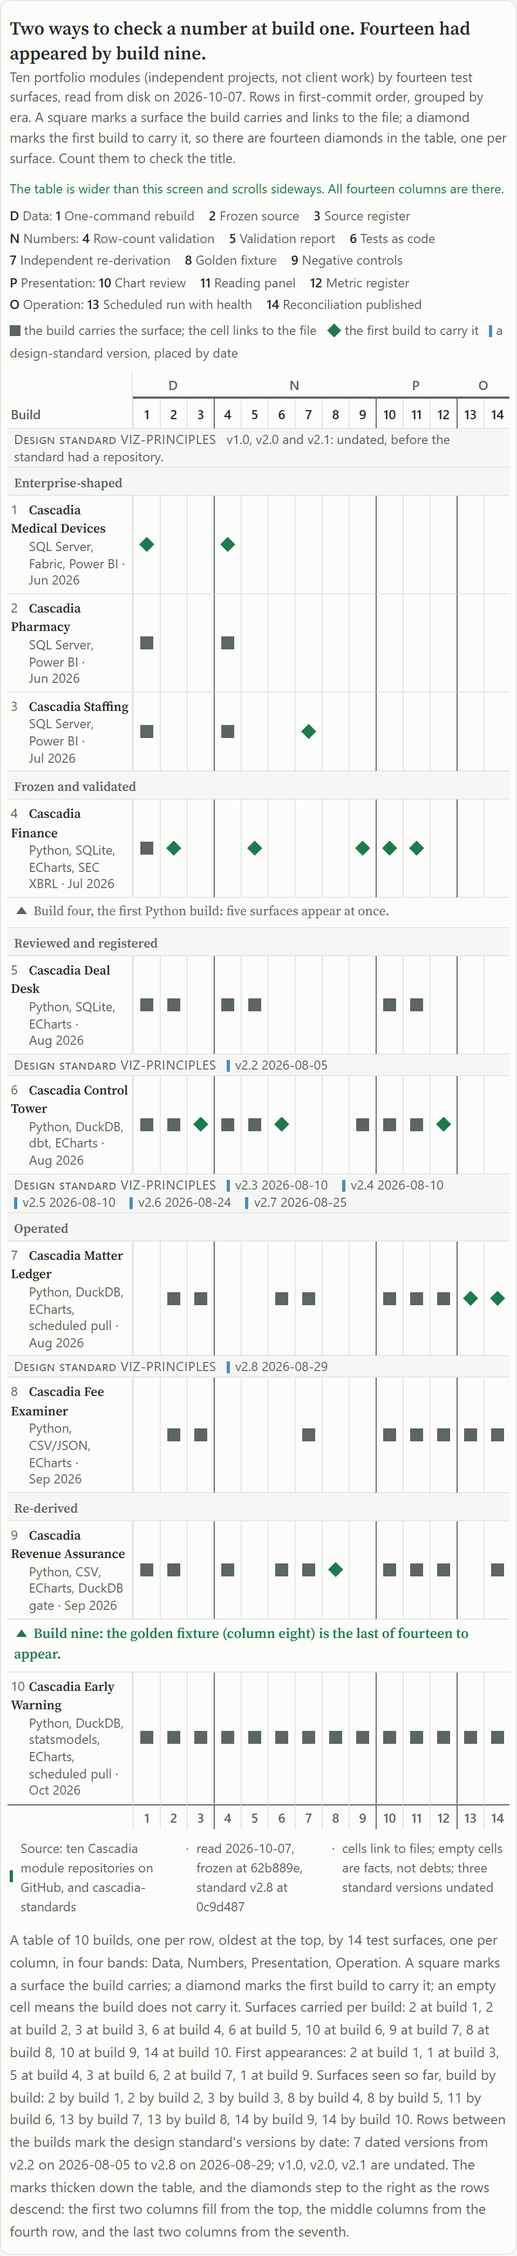
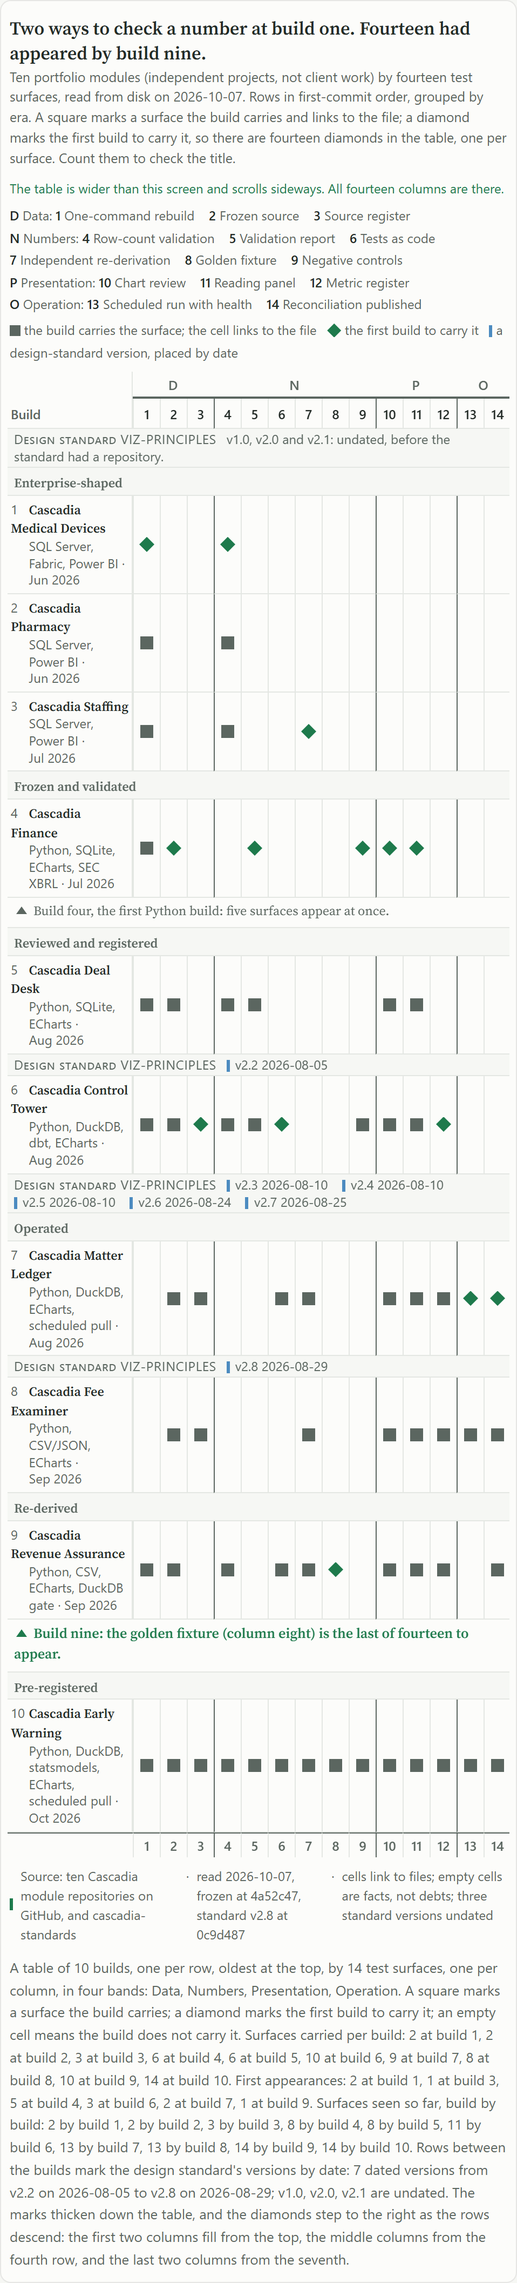
freeze.toml: baseline moved to the Brief 4 refreeze; page rebuilt and re-rendered; one-seat revision read recorded
The sixth era changed the matrix's grouping, so by Aaron's decision one
naive seat read the 320 and 1040 renders. Its one new finding (R1: the
name "Pre-registered" read as a step backwards next to "Reviewed and
registered") is held for Aaron, with an alternative in the report.

Gates: validate.py PASSED; validate_freeze.py PASSED; hook matrix 50 of 50;
render_charts.py K6 ladder exit 0 at 320 to 1040.

diff --git a/docs/index.html b/docs/index.html
@@ -176,7 +176,7 @@
 <header class="site-head">
   <p class="kicker"><a href="https://www.robbinsanalytics.com">Cascadia Portfolio</a> · Build by Build</p>
   <h1>Build by Build</h1>
-  <p class="lede">Nine Cascadia modules, built one after another over four months, and the tests each one could carry when it shipped. Every filled cell links to the file on GitHub that it names. An empty cell says the build did not carry that surface, and nothing is owed on it.</p>
+  <p class="lede">Ten Cascadia modules, built one after another over four months, and the tests each one could carry when it shipped. Every filled cell links to the file on GitHub that it names. An empty cell says the build did not carry that surface, and nothing is owed on it.</p>
 </header>
 
 <h2>The test-surface matrix</h2>
@@ -210,9 +210,10 @@
 <tr class="lane"><td colspan="15"><div class="stick"><span class="lane-label">Design standard VIZ-PRINCIPLES</span> <span class="lane-mark"><span class="lane-tick" aria-hidden="true"></span>v2.8 <span class="lane-date">2026-08-29</span></span></div></td></tr>
 <tr class="build"><th scope="row" class="build-label"><span class="ord" aria-hidden="true">8</span><a href="https://www.robbinsanalytics.com/projects/cascadia-fee-examiner.html">Cascadia Fee Examiner</a><span class="meta">Python, CSV/JSON, ECharts <span class="dot">·</span> <span class="when">Sep 2026</span></span></th><td class="cell empty"></td><td class="cell"><a class="mark" href="https://github.com/RobbinsAnalytics/cascadia-fee-examiner/blob/main/governance/freeze.toml" title="governance/freeze.toml" aria-label="Frozen source: governance/freeze.toml in cascadia-fee-examiner"><span aria-hidden="true"></span></a></td><td class="cell"><a class="mark" href="https://github.com/RobbinsAnalytics/cascadia-fee-examiner/blob/main/governance/source-register.md" title="governance/source-register.md" aria-label="Source register: governance/source-register.md in cascadia-fee-examiner"><span aria-hidden="true"></span></a></td><td class="cell empty band-start"></td><td class="cell empty"></td><td class="cell empty"></td><td class="cell"><a class="mark" href="https://github.com/RobbinsAnalytics/cascadia-fee-examiner/blob/main/src/validate_measures.py" title="src/validate_measures.py" aria-label="Independent re-derivation: src/validate_measures.py in cascadia-fee-examiner"><span aria-hidden="true"></span></a></td><td class="cell empty"></td><td class="cell empty"></td><td class="cell band-start"><a class="mark" href="https://github.com/RobbinsAnalytics/cascadia-fee-examiner/blob/main/governance/chart-review.md" title="governance/chart-review.md" aria-label="Chart review: governance/chart-review.md in cascadia-fee-examiner"><span aria-hidden="true"></span></a></td><td class="cell"><a class="mark" href="https://github.com/RobbinsAnalytics/cascadia-fee-examiner/blob/main/governance/chart-review.md" title="governance/chart-review.md" aria-label="Reading panel: governance/chart-review.md in cascadia-fee-examiner"><span aria-hidden="true"></span></a></td><td class="cell"><a class="mark" href="https://github.com/RobbinsAnalytics/cascadia-fee-examiner/blob/main/governance/metric_register.md" title="governance/metric_register.md" aria-label="Metric register: governance/metric_register.md in cascadia-fee-examiner"><span aria-hidden="true"></span></a></td><td class="cell band-start"><a class="mark" href="https://github.com/RobbinsAnalytics/cascadia-fee-examiner/blob/main/governance/health.json" title="governance/health.json" aria-label="Scheduled run with health: governance/health.json in cascadia-fee-examiner"><span aria-hidden="true"></span></a></td><td class="cell"><a class="mark" href="https://github.com/RobbinsAnalytics/cascadia-fee-examiner/blob/main/governance/reconciliation.md" title="governance/reconciliation.md" aria-label="Reconciliation published: governance/reconciliation.md in cascadia-fee-examiner"><span aria-hidden="true"></span></a></td></tr>
 <tr class="era-row"><th scope="rowgroup" colspan="15"><div class="stick">Re-derived</div></th></tr>
-<tr class="build"><th scope="rowgroup" class="era" rowspan="3"><span>Re-derived</span></th><th scope="row" class="build-label"><span class="ord" aria-hidden="true">9</span><a href="https://www.robbinsanalytics.com/projects/cascadia-revenue-assurance.html">Cascadia Revenue Assurance</a><span class="meta">Python, CSV, ECharts, DuckDB gate <span class="dot">·</span> <span class="when">Sep 2026</span></span></th><td class="cell"><a class="mark" href="https://github.com/RobbinsAnalytics/cascadia-revenue-assurance/blob/main/CLAUDE.md" title="CLAUDE.md" aria-label="One-command rebuild: CLAUDE.md in cascadia-revenue-assurance"><span aria-hidden="true"></span></a></td><td class="cell"><a class="mark" href="https://github.com/RobbinsAnalytics/cascadia-revenue-assurance/blob/main/governance/freeze.toml" title="governance/freeze.toml" aria-label="Frozen source: governance/freeze.toml in cascadia-revenue-assurance"><span aria-hidden="true"></span></a></td><td class="cell empty"></td><td class="cell band-start"><a class="mark" href="https://github.com/RobbinsAnalytics/cascadia-revenue-assurance/blob/main/src/validate.py" title="src/validate.py" aria-label="Row-count validation: src/validate.py in cascadia-revenue-assurance"><span aria-hidden="true"></span></a></td><td class="cell empty"></td><td class="cell"><a class="mark" href="https://github.com/RobbinsAnalytics/cascadia-revenue-assurance/blob/main/src/test_golden.py" title="src/test_golden.py" aria-label="Tests as code: src/test_golden.py in cascadia-revenue-assurance"><span aria-hidden="true"></span></a></td><td class="cell"><a class="mark" href="https://github.com/RobbinsAnalytics/cascadia-revenue-assurance/blob/main/src/validate_measures.py" title="src/validate_measures.py" aria-label="Independent re-derivation: src/validate_measures.py in cascadia-revenue-assurance"><span aria-hidden="true"></span></a></td><td class="cell"><a class="mark first" href="https://github.com/RobbinsAnalytics/cascadia-revenue-assurance/tree/main/tests/golden/" title="tests/golden/" aria-label="Golden fixture: tests/golden/ in cascadia-revenue-assurance, the first build to carry it"><span aria-hidden="true"></span></a></td><td class="cell empty"></td><td class="cell band-start"><a class="mark" href="https://github.com/RobbinsAnalytics/cascadia-revenue-assurance/blob/main/governance/chart-review.md" title="governance/chart-review.md" aria-label="Chart review: governance/chart-review.md in cascadia-revenue-assurance"><span aria-hidden="true"></span></a></td><td class="cell"><a class="mark" href="https://github.com/RobbinsAnalytics/cascadia-revenue-assurance/blob/main/governance/chart-review.md" title="governance/chart-review.md" aria-label="Reading panel: governance/chart-review.md in cascadia-revenue-assurance"><span aria-hidden="true"></span></a></td><td class="cell"><a class="mark" href="https://github.com/RobbinsAnalytics/cascadia-revenue-assurance/blob/main/governance/metric_register.md" title="governance/metric_register.md" aria-label="Metric register: governance/metric_register.md in cascadia-revenue-assurance"><span aria-hidden="true"></span></a></td><td class="cell empty band-start"></td><td class="cell"><a class="mark" href="https://github.com/RobbinsAnalytics/cascadia-revenue-assurance/blob/main/governance/reconciliation.md" title="governance/reconciliation.md" aria-label="Reconciliation published: governance/reconciliation.md in cascadia-revenue-assurance"><span aria-hidden="true"></span></a></td></tr>
+<tr class="build"><th scope="rowgroup" class="era" rowspan="2"><span>Re-derived</span></th><th scope="row" class="build-label"><span class="ord" aria-hidden="true">9</span><a href="https://www.robbinsanalytics.com/projects/cascadia-revenue-assurance.html">Cascadia Revenue Assurance</a><span class="meta">Python, CSV, ECharts, DuckDB gate <span class="dot">·</span> <span class="when">Sep 2026</span></span></th><td class="cell"><a class="mark" href="https://github.com/RobbinsAnalytics/cascadia-revenue-assurance/blob/main/CLAUDE.md" title="CLAUDE.md" aria-label="One-command rebuild: CLAUDE.md in cascadia-revenue-assurance"><span aria-hidden="true"></span></a></td><td class="cell"><a class="mark" href="https://github.com/RobbinsAnalytics/cascadia-revenue-assurance/blob/main/governance/freeze.toml" title="governance/freeze.toml" aria-label="Frozen source: governance/freeze.toml in cascadia-revenue-assurance"><span aria-hidden="true"></span></a></td><td class="cell empty"></td><td class="cell band-start"><a class="mark" href="https://github.com/RobbinsAnalytics/cascadia-revenue-assurance/blob/main/src/validate.py" title="src/validate.py" aria-label="Row-count validation: src/validate.py in cascadia-revenue-assurance"><span aria-hidden="true"></span></a></td><td class="cell empty"></td><td class="cell"><a class="mark" href="https://github.com/RobbinsAnalytics/cascadia-revenue-assurance/blob/main/src/test_golden.py" title="src/test_golden.py" aria-label="Tests as code: src/test_golden.py in cascadia-revenue-assurance"><span aria-hidden="true"></span></a></td><td class="cell"><a class="mark" href="https://github.com/RobbinsAnalytics/cascadia-revenue-assurance/blob/main/src/validate_measures.py" title="src/validate_measures.py" aria-label="Independent re-derivation: src/validate_measures.py in cascadia-revenue-assurance"><span aria-hidden="true"></span></a></td><td class="cell"><a class="mark first" href="https://github.com/RobbinsAnalytics/cascadia-revenue-assurance/tree/main/tests/golden/" title="tests/golden/" aria-label="Golden fixture: tests/golden/ in cascadia-revenue-assurance, the first build to carry it"><span aria-hidden="true"></span></a></td><td class="cell empty"></td><td class="cell band-start"><a class="mark" href="https://github.com/RobbinsAnalytics/cascadia-revenue-assurance/blob/main/governance/chart-review.md" title="governance/chart-review.md" aria-label="Chart review: governance/chart-review.md in cascadia-revenue-assurance"><span aria-hidden="true"></span></a></td><td class="cell"><a class="mark" href="https://github.com/RobbinsAnalytics/cascadia-revenue-assurance/blob/main/governance/chart-review.md" title="governance/chart-review.md" aria-label="Reading panel: governance/chart-review.md in cascadia-revenue-assurance"><span aria-hidden="true"></span></a></td><td class="cell"><a class="mark" href="https://github.com/RobbinsAnalytics/cascadia-revenue-assurance/blob/main/governance/metric_register.md" title="governance/metric_register.md" aria-label="Metric register: governance/metric_register.md in cascadia-revenue-assurance"><span aria-hidden="true"></span></a></td><td class="cell empty band-start"></td><td class="cell"><a class="mark" href="https://github.com/RobbinsAnalytics/cascadia-revenue-assurance/blob/main/governance/reconciliation.md" title="governance/reconciliation.md" aria-label="Reconciliation published: governance/reconciliation.md in cascadia-revenue-assurance"><span aria-hidden="true"></span></a></td></tr>
 <tr class="annotation primary"><td colspan="15"><div class="stick"><span class="ann-tick" aria-hidden="true"></span>Build nine: the golden fixture (column eight) is the last of fourteen to appear.</div></td></tr>
-<tr class="build"><th scope="row" class="build-label"><span class="ord" aria-hidden="true">10</span><a href="https://www.robbinsanalytics.com/projects/cascadia-early-warning.html">Cascadia Early Warning</a><span class="meta">Python, DuckDB, statsmodels, ECharts, scheduled pull <span class="dot">·</span> <span class="when">Oct 2026</span></span></th><td class="cell"><a class="mark" href="https://github.com/RobbinsAnalytics/cascadia-early-warning/blob/build/early-warning/README.md" title="README.md" aria-label="One-command rebuild: README.md in cascadia-early-warning"><span aria-hidden="true"></span></a></td><td class="cell"><a class="mark" href="https://github.com/RobbinsAnalytics/cascadia-early-warning/blob/build/early-warning/governance/freeze.toml" title="governance/freeze.toml" aria-label="Frozen source: governance/freeze.toml in cascadia-early-warning"><span aria-hidden="true"></span></a></td><td class="cell"><a class="mark" href="https://github.com/RobbinsAnalytics/cascadia-early-warning/blob/build/early-warning/governance/source-register.md" title="governance/source-register.md" aria-label="Source register: governance/source-register.md in cascadia-early-warning"><span aria-hidden="true"></span></a></td><td class="cell band-start"><a class="mark" href="https://github.com/RobbinsAnalytics/cascadia-early-warning/blob/build/early-warning/src/validate.py" title="src/validate.py" aria-label="Row-count validation: src/validate.py in cascadia-early-warning"><span aria-hidden="true"></span></a></td><td class="cell"><a class="mark" href="https://github.com/RobbinsAnalytics/cascadia-early-warning/blob/build/early-warning/governance/validation_report.md" title="governance/validation_report.md" aria-label="Validation report: governance/validation_report.md in cascadia-early-warning"><span aria-hidden="true"></span></a></td><td class="cell"><a class="mark" href="https://github.com/RobbinsAnalytics/cascadia-early-warning/blob/build/early-warning/src/test_golden.py" title="src/test_golden.py" aria-label="Tests as code: src/test_golden.py in cascadia-early-warning"><span aria-hidden="true"></span></a></td><td class="cell"><a class="mark" href="https://github.com/RobbinsAnalytics/cascadia-early-warning/blob/build/early-warning/src/validate_measures.py" title="src/validate_measures.py" aria-label="Independent re-derivation: src/validate_measures.py in cascadia-early-warning"><span aria-hidden="true"></span></a></td><td class="cell"><a class="mark" href="https://github.com/RobbinsAnalytics/cascadia-early-warning/tree/build/early-warning/tests/golden/" title="tests/golden/" aria-label="Golden fixture: tests/golden/ in cascadia-early-warning"><span aria-hidden="true"></span></a></td><td class="cell"><a class="mark" href="https://github.com/RobbinsAnalytics/cascadia-early-warning/blob/build/early-warning/governance/validation_report.md" title="governance/validation_report.md" aria-label="Negative controls: governance/validation_report.md in cascadia-early-warning"><span aria-hidden="true"></span></a></td><td class="cell band-start"><a class="mark" href="https://github.com/RobbinsAnalytics/cascadia-early-warning/blob/build/early-warning/governance/chart-review.md" title="governance/chart-review.md" aria-label="Chart review: governance/chart-review.md in cascadia-early-warning"><span aria-hidden="true"></span></a></td><td class="cell"><a class="mark" href="https://github.com/RobbinsAnalytics/cascadia-early-warning/blob/build/early-warning/governance/panel/findings.json" title="governance/panel/findings.json" aria-label="Reading panel: governance/panel/findings.json in cascadia-early-warning"><span aria-hidden="true"></span></a></td><td class="cell"><a class="mark" href="https://github.com/RobbinsAnalytics/cascadia-early-warning/blob/build/early-warning/governance/metric_register.md" title="governance/metric_register.md" aria-label="Metric register: governance/metric_register.md in cascadia-early-warning"><span aria-hidden="true"></span></a></td><td class="cell band-start"><a class="mark" href="https://github.com/RobbinsAnalytics/cascadia-early-warning/blob/build/early-warning/governance/health.json" title="governance/health.json" aria-label="Scheduled run with health: governance/health.json in cascadia-early-warning"><span aria-hidden="true"></span></a></td><td class="cell"><a class="mark" href="https://github.com/RobbinsAnalytics/cascadia-early-warning/blob/build/early-warning/governance/reconciliation.md" title="governance/reconciliation.md" aria-label="Reconciliation published: governance/reconciliation.md in cascadia-early-warning"><span aria-hidden="true"></span></a></td></tr>
+<tr class="era-row"><th scope="rowgroup" colspan="15"><div class="stick">Pre-registered</div></th></tr>
+<tr class="build"><th scope="rowgroup" class="era" rowspan="1"><span>Pre-regis&shy;tered</span></th><th scope="row" class="build-label"><span class="ord" aria-hidden="true">10</span><a href="https://www.robbinsanalytics.com/cascadia-early-warning/case-study.html">Cascadia Early Warning</a><span class="meta">Python, DuckDB, statsmodels, ECharts, scheduled pull <span class="dot">·</span> <span class="when">Oct 2026</span></span></th><td class="cell"><a class="mark" href="https://github.com/RobbinsAnalytics/cascadia-early-warning/blob/main/README.md" title="README.md" aria-label="One-command rebuild: README.md in cascadia-early-warning"><span aria-hidden="true"></span></a></td><td class="cell"><a class="mark" href="https://github.com/RobbinsAnalytics/cascadia-early-warning/blob/main/governance/freeze.toml" title="governance/freeze.toml" aria-label="Frozen source: governance/freeze.toml in cascadia-early-warning"><span aria-hidden="true"></span></a></td><td class="cell"><a class="mark" href="https://github.com/RobbinsAnalytics/cascadia-early-warning/blob/main/governance/source-register.md" title="governance/source-register.md" aria-label="Source register: governance/source-register.md in cascadia-early-warning"><span aria-hidden="true"></span></a></td><td class="cell band-start"><a class="mark" href="https://github.com/RobbinsAnalytics/cascadia-early-warning/blob/main/src/validate.py" title="src/validate.py" aria-label="Row-count validation: src/validate.py in cascadia-early-warning"><span aria-hidden="true"></span></a></td><td class="cell"><a class="mark" href="https://github.com/RobbinsAnalytics/cascadia-early-warning/blob/main/governance/validation_report.md" title="governance/validation_report.md" aria-label="Validation report: governance/validation_report.md in cascadia-early-warning"><span aria-hidden="true"></span></a></td><td class="cell"><a class="mark" href="https://github.com/RobbinsAnalytics/cascadia-early-warning/blob/main/src/test_golden.py" title="src/test_golden.py" aria-label="Tests as code: src/test_golden.py in cascadia-early-warning"><span aria-hidden="true"></span></a></td><td class="cell"><a class="mark" href="https://github.com/RobbinsAnalytics/cascadia-early-warning/blob/main/src/validate_measures.py" title="src/validate_measures.py" aria-label="Independent re-derivation: src/validate_measures.py in cascadia-early-warning"><span aria-hidden="true"></span></a></td><td class="cell"><a class="mark" href="https://github.com/RobbinsAnalytics/cascadia-early-warning/tree/main/tests/golden/" title="tests/golden/" aria-label="Golden fixture: tests/golden/ in cascadia-early-warning"><span aria-hidden="true"></span></a></td><td class="cell"><a class="mark" href="https://github.com/RobbinsAnalytics/cascadia-early-warning/blob/main/governance/validation_report.md" title="governance/validation_report.md" aria-label="Negative controls: governance/validation_report.md in cascadia-early-warning"><span aria-hidden="true"></span></a></td><td class="cell band-start"><a class="mark" href="https://github.com/RobbinsAnalytics/cascadia-early-warning/blob/main/governance/chart-review.md" title="governance/chart-review.md" aria-label="Chart review: governance/chart-review.md in cascadia-early-warning"><span aria-hidden="true"></span></a></td><td class="cell"><a class="mark" href="https://github.com/RobbinsAnalytics/cascadia-early-warning/blob/main/governance/panel/findings.json" title="governance/panel/findings.json" aria-label="Reading panel: governance/panel/findings.json in cascadia-early-warning"><span aria-hidden="true"></span></a></td><td class="cell"><a class="mark" href="https://github.com/RobbinsAnalytics/cascadia-early-warning/blob/main/governance/metric_register.md" title="governance/metric_register.md" aria-label="Metric register: governance/metric_register.md in cascadia-early-warning"><span aria-hidden="true"></span></a></td><td class="cell band-start"><a class="mark" href="https://github.com/RobbinsAnalytics/cascadia-early-warning/blob/main/governance/health.json" title="governance/health.json" aria-label="Scheduled run with health: governance/health.json in cascadia-early-warning"><span aria-hidden="true"></span></a></td><td class="cell"><a class="mark" href="https://github.com/RobbinsAnalytics/cascadia-early-warning/blob/main/governance/reconciliation.md" title="governance/reconciliation.md" aria-label="Reconciliation published: governance/reconciliation.md in cascadia-early-warning"><span aria-hidden="true"></span></a></td></tr>
 </tbody>
 <tfoot><tr class="foot"><td class="era-h"></td><td class="build-h"></td><td class="footnum" aria-hidden="true">1</td><td class="footnum" aria-hidden="true">2</td><td class="footnum" aria-hidden="true">3</td><td class="footnum band-start" aria-hidden="true">4</td><td class="footnum" aria-hidden="true">5</td><td class="footnum" aria-hidden="true">6</td><td class="footnum" aria-hidden="true">7</td><td class="footnum" aria-hidden="true">8</td><td class="footnum" aria-hidden="true">9</td><td class="footnum band-start" aria-hidden="true">10</td><td class="footnum" aria-hidden="true">11</td><td class="footnum" aria-hidden="true">12</td><td class="footnum band-start" aria-hidden="true">13</td><td class="footnum" aria-hidden="true">14</td></tr></tfoot>
 </table>
@@ -221,15 +222,16 @@
 <span class="band-k"><b>N</b> Numbers:</span> <span class="k"><b>4</b> Row-count valid&shy;ation</span> <span class="k"><b>5</b> Valid&shy;ation report</span> <span class="k"><b>6</b> Tests as code</span> <span class="k"><b>7</b> Inde&shy;pen&shy;dent re-deri&shy;va&shy;tion</span> <span class="k"><b>8</b> Golden fixture</span> <span class="k"><b>9</b> Nega&shy;tive controls</span><br>
 <span class="band-k"><b>P</b> Presentation:</span> <span class="k"><b>10</b> Chart review</span> <span class="k"><b>11</b> Reading panel</span> <span class="k"><b>12</b> Metric regis&shy;ter</span><br>
 <span class="band-k"><b>O</b> Operation:</span> <span class="k"><b>13</b> Sched&shy;uled run with health</span> <span class="k"><b>14</b> Recon&shy;cili&shy;ation pub&shy;lished</span><span class="legend"><span class="sq"></span> the build carries the surface; the cell links to the file &nbsp; <span class="di"></span> the first build to carry it &nbsp; <span class="lt"></span> a design-standard version, placed by date</span></p>
-  <div class="cascadia-provenance" role="note"><span class="tick"></span><span>Source: ten Cascadia module repositories on GitHub, and cascadia-standards</span> · <span>read 2026-10-07, frozen at 62b889e, standard v2.8 at 0c9d487</span> · <span>cells link to files; empty cells are facts, not debts; three standard versions undated</span></div>
+  <div class="cascadia-provenance" role="note"><span class="tick"></span><span>Source: ten Cascadia module repositories on GitHub, and cascadia-standards</span> · <span>read 2026-10-07, frozen at 4a52c47, standard v2.8 at 0c9d487</span> · <span>cells link to files; empty cells are facts, not debts; three standard versions undated</span></div>
 </div>
 
-<h2>Five eras</h2>
+<h2>Six eras</h2>
 <section class="era-block"><h3>Enterprise-shaped</h3><p class="members"><a href="https://www.robbinsanalytics.com/projects/cascadia-medical-devices.html">Cascadia Medical Devices</a>, <a href="https://www.robbinsanalytics.com/projects/cascadia-pharmacy.html">Cascadia Pharmacy</a>, <a href="https://www.robbinsanalytics.com/projects/cascadia-staffing.html">Cascadia Staffing</a></p><dl><dt>What could be tested</dt><dd>A one-command rebuild and a row-count check against stated expectations, in all three: <a href="https://www.robbinsanalytics.com/projects/cascadia-medical-devices.html">Cascadia Medical Devices</a>, <a href="https://www.robbinsanalytics.com/projects/cascadia-pharmacy.html">Cascadia Pharmacy</a> and <a href="https://www.robbinsanalytics.com/projects/cascadia-staffing.html">Cascadia Staffing</a>. Staffing added a second path: the KPIs the Power BI report shows, re-derived in SQL against the model.</dd><dt>What had to be trusted</dt><dd>The source itself, since nothing was frozen or registered; every chart, since none was reviewed or read blind; and every published figure that was not one of Staffing's re-derived KPIs.</dd><dt>What the next era brought under test</dt><dd>A frozen source with a stated as-of date, a validation report committed beside the data, a chart review against a written standard, a reading panel, and a proof that the checks can fail.</dd></dl></section>
 <section class="era-block"><h3>Frozen and validated</h3><p class="members"><a href="https://www.robbinsanalytics.com/projects/cascadia-finance.html">Cascadia Finance</a></p><dl><dt>What could be tested</dt><dd><a href="https://www.robbinsanalytics.com/projects/cascadia-finance.html">Cascadia Finance</a> froze its SEC filings under a dated freeze, reconciled quarters to filed years and committed the report, fed every check corrupted data and published that all of them rejected it, and had its charts reviewed and read by a panel. The era's name understates it: the negative controls and the reading panel arrived here, not later.</dd><dt>What had to be trusted</dt><dd>The row counts of the load, which no check compares against the source; the hashes of the raw files, which no register carries; the measure definitions, which no register states; and the published measures, which no second path re-derives.</dd><dt>What the next era brought under test</dt><dd>Tests as code, a metric register generated from the model that computes the numbers, a source register with a hash per file, and a row-count check against the source.</dd></dl></section>
 <section class="era-block"><h3>Reviewed and registered</h3><p class="members"><a href="https://www.robbinsanalytics.com/projects/cascadia-dealdesk.html">Cascadia Deal Desk</a>, <a href="https://www.robbinsanalytics.com/projects/cascadia-controltower.html">Cascadia Control Tower</a></p><dl><dt>What could be tested</dt><dd><a href="https://www.robbinsanalytics.com/projects/cascadia-dealdesk.html">Cascadia Deal Desk</a> kept everything Finance could test except the proof of failability, and added a count of conformed rows against raw. <a href="https://www.robbinsanalytics.com/projects/cascadia-controltower.html">Cascadia Control Tower</a> added dbt tests, a metric register generated from the model file and checked for drift on every build, a source register with a hash per file, and a published proof that its realism audits and structural checks trip on wrong numbers.</dd><dt>What had to be trusted</dt><dd>That the numbers stay right after the build ends, since nothing runs on a schedule and no reconciliation is published; and the published measures themselves, since neither module re-derives them down a second path.</dd><dt>What the next era brought under test</dt><dd>A scheduled run that publishes its own health and run history, a reconciliation committed with its failures, and every published cell re-derived down a separately written path.</dd></dl></section>
 <section class="era-block"><h3>Operated</h3><p class="members"><a href="https://www.robbinsanalytics.com/projects/cascadia-matter-ledger.html">Cascadia Matter Ledger</a>, <a href="https://www.robbinsanalytics.com/projects/cascadia-fee-examiner.html">Cascadia Fee Examiner</a></p><dl><dt>What could be tested</dt><dd><a href="https://www.robbinsanalytics.com/projects/cascadia-matter-ledger.html">Cascadia Matter Ledger</a> and <a href="https://www.robbinsanalytics.com/projects/cascadia-fee-examiner.html">Cascadia Fee Examiner</a> run a pipeline that re-asserts its invariants on a schedule and publish its health, its run history and a reconciliation that records the runs that stopped or failed. Both re-derive every published cell down a separately written path and carry a source register with hashes. Matter Ledger's one test file tests the page's touch readout in a browser.</dd><dt>What had to be trusted</dt><dd>The build order, which neither states; the load's row counts, which neither compares to the source; the checks' own failability, which neither proves in a committed report; and the engine's first output, since no golden fixture existed before the code.</dd><dt>What the next era brought under test</dt><dd>A golden fixture specified by hand and committed failing before any engine existed, and a second derivation path written from the rules document rather than from the first path's code.</dd></dl></section>
-<section class="era-block"><h3>Re-derived</h3><p class="members"><a href="https://www.robbinsanalytics.com/projects/cascadia-revenue-assurance.html">Cascadia Revenue Assurance</a>, <a href="https://www.robbinsanalytics.com/projects/cascadia-early-warning.html">Cascadia Early Warning</a></p><dl><dt>What could be tested</dt><dd><a href="https://www.robbinsanalytics.com/projects/cascadia-revenue-assurance.html">Cascadia Revenue Assurance</a> derives every published cell down two paths written from one rules document and compares them cell by cell; a hand-specified golden fixture, committed failing before either engine, passes on both. It keeps the freeze, the metric register, the chart review, the panel and the reconciliation, and adds tests as code.</dd><dt>What had to be trusted</dt><dd>The source register, since a synthetic snapshot carries no hashes; the validation report and the proof of failability, since its gates print their result and do not commit it; and operation over time, since nothing runs on a schedule.</dd><dt>What the next era brought under test</dt><dd>Nothing is under test for a tenth build yet. No row exists for it, and no retrospective has been written for this one.</dd></dl></section>
+<section class="era-block"><h3>Re-derived</h3><p class="members"><a href="https://www.robbinsanalytics.com/projects/cascadia-revenue-assurance.html">Cascadia Revenue Assurance</a></p><dl><dt>What could be tested</dt><dd><a href="https://www.robbinsanalytics.com/projects/cascadia-revenue-assurance.html">Cascadia Revenue Assurance</a> derives every published cell down two paths written from one rules document and compares them cell by cell; a hand-specified golden fixture, committed failing before either engine, passes on both. It keeps the freeze, the metric register, the chart review, the panel and the reconciliation, and adds tests as code.</dd><dt>What had to be trusted</dt><dd>The source register, since a synthetic snapshot carries no hashes; the validation report and the proof of failability, since its gates print their result and do not commit it; and operation over time, since nothing runs on a schedule.</dd><dt>What the next era brought under test</dt><dd>A forecast whose harness, periods and promotion rule were committed before the first forecast existed, a locked test held to them, and a scheduled run again, now beside a second derivation path.</dd></dl></section>
+<section class="era-block"><h3>Pre-registered</h3><p class="members"><a href="https://www.robbinsanalytics.com/cascadia-early-warning/case-study.html">Cascadia Early Warning</a></p><dl><dt>What could be tested</dt><dd><a href="https://www.robbinsanalytics.com/cascadia-early-warning/case-study.html">Cascadia Early Warning</a> committed its forecast harness, its periods and its promotion rule before the first forecast existed, and the git log records the order. One corrected result was frozen after a documented harness repair; promotion and point forecasts were unchanged. Counts, forecast arithmetic, scores and review episodes are re-derived down a second path (DuckDB SQL plus its own Python arithmetic), and a live edge, weekly from publication, scores a forecast when its month first appears in the source.</dd><dt>What had to be trusted</dt><dd>The promotion judgement, which no second path re-applies; the recall context, checked against hand-verified events rather than re-derived; and the source itself, which openFDA revises weekly and in place, so the freeze is a hash of what was read, not a claim that the counts stop moving.</dd><dt>What the next era brought under test</dt><dd>Nothing is under test for an eleventh build yet. No row exists for it, and no retrospective has been written for this one.</dd></dl></section>
 
 
 <h2>The walk</h2>
@@ -239,6 +241,7 @@
 <p><a href="https://www.robbinsanalytics.com/projects/cascadia-dealdesk.html">Cascadia Deal Desk</a> and <a href="https://www.robbinsanalytics.com/projects/cascadia-controltower.html">Cascadia Control Tower</a> kept those and registered what they published: a metric register generated from the model, tests in the warehouse layer, and a source register with a hash per file.</p>
 <p><a href="https://www.robbinsanalytics.com/projects/cascadia-matter-ledger.html">Cascadia Matter Ledger</a> and <a href="https://www.robbinsanalytics.com/projects/cascadia-fee-examiner.html">Cascadia Fee Examiner</a> ran on a schedule and published what running looks like: health, history, a reconciliation that records its own failures, and every published cell re-derived a second way.</p>
 <p><a href="https://www.robbinsanalytics.com/projects/cascadia-revenue-assurance.html">Cascadia Revenue Assurance</a> wrote the rules first, the golden fixture second and two engines third, and published nothing until all of them agreed.</p>
+<p><a href="https://www.robbinsanalytics.com/cascadia-early-warning/case-study.html">Cascadia Early Warning</a> committed its forecast and the rule that judges it before the first forecast existed, kept the second path, and runs a weekly live edge from publication.</p>
 <p class="list-intro">Ten modules, oldest first.</p>
 <ol class="modules">
 <li><a href="https://www.robbinsanalytics.com/projects/cascadia-medical-devices.html">Cascadia Medical Devices</a><span class="line">A simulated MES and NASA engine-degradation data in SQL Server, Fabric and Power BI: OEE and predictive maintenance, rebuilt by one script with a row-count table at the end.</span></li>
@@ -250,7 +253,7 @@
 <li><a href="https://www.robbinsanalytics.com/projects/cascadia-matter-ledger.html">Cascadia Matter Ledger</a><span class="line">Federal civil dockets, frozen and then extended by a scheduled pull that publishes its health, its history and its reconciliation.</span></li>
 <li><a href="https://www.robbinsanalytics.com/projects/cascadia-fee-examiner.html">Cascadia Fee Examiner</a><span class="line">Bankruptcy fee applications resolved across sources with no shared key: a source register with hashes and every cell re-derived a second way.</span></li>
 <li><a href="https://www.robbinsanalytics.com/projects/cascadia-revenue-assurance.html">Cascadia Revenue Assurance</a><span class="line">A synthetic subscription book: two derivation paths from one rules document, a golden fixture written first, and invoices reconciled to the month.</span></li>
-<li><a href="https://www.robbinsanalytics.com/projects/cascadia-early-warning.html">Cascadia Early Warning</a><span class="line">Public FDA device-report counts for seven product codes: a forecast pre-registered before its first row, a locked test run once, every cell re-derived in SQL, and a weekly live edge that scores each forecast as its month elapses.</span></li>
+<li><a href="https://www.robbinsanalytics.com/cascadia-early-warning/case-study.html">Cascadia Early Warning</a><span class="line">Public FDA device-report counts for seven product codes: a forecast harness registered before the first forecast existed; a locked test frozen after a documented harness repair; counts, forecasts, scores and review episodes re-derived down a second path; and a weekly live edge from publication.</span></li>
 </ol>
 <p class="closing">From here the walk is a conversation. Pick a module; its row is where it starts.</p>
 
@@ -260,7 +263,7 @@
 <h3>About this page</h3>
 <p>An independent portfolio project by Aaron Robbins. This page is generated from two data files, data/builds.json and data/standard.json, in the repository linked below; the inventory script that writes them reads the ten module repositories and never writes in one. No score, level, weight or percentage exists in the data. A cell is a path or it is empty. Older modules are not retrofitted; an empty cell is a fact about what a build carried, never a debt.</p>
 <p>Source, the inventory script, the surface definitions and the two data files:
-<a href="https://github.com/RobbinsAnalytics/cascadia-build-by-build">github.com/RobbinsAnalytics/cascadia-build-by-build</a>. How a cell is filled or left empty is a written rule per column, in <a href="https://github.com/RobbinsAnalytics/cascadia-build-by-build/blob/main/governance/surfaces.md">governance/surfaces.md</a>. Inventory read 2026-10-07; data frozen at commit <code>62b889e</code>.</p>
+<a href="https://github.com/RobbinsAnalytics/cascadia-build-by-build">github.com/RobbinsAnalytics/cascadia-build-by-build</a>. How a cell is filled or left empty is a written rule per column, in <a href="https://github.com/RobbinsAnalytics/cascadia-build-by-build/blob/main/governance/surfaces.md">governance/surfaces.md</a>. Inventory read 2026-10-07; data frozen at commit <code>4a52c47</code>.</p>
 </div>
 
 </div>

diff --git a/governance/chart-review.md b/governance/chart-review.md
@@ -843,3 +843,69 @@ What the reader now sees that the panel did not: a tenth row, in the
 Re-derived era, carrying all fourteen surfaces, with no diamond on it. The
 lede's first sentence still says "Nine Cascadia modules"; it is Aaron's
 accepted line and is left for him to rewrite.
+
+## Revision 2026-10-07 (Brief 4): a sixth era, one-seat revision read
+
+The era grouping changed: Cascadia Early Warning leaves Re-derived and opens a
+sixth era, Pre-registered (decision record D7, resolved). Its row's link
+targets moved too (D9): its case study to
+`cascadia-early-warning/case-study.html`, its cells to `main`. **By Aaron's
+decision (Build Brief 4, review budget) this revision gets one seat, not a
+panel:** a single naive reader shown only `docs/renders/matrix-320.png` and
+`docs/renders/matrix-1040.png`, returning the standard four items per screen
+plus one line on the eras.
+
+| Check | Result |
+|---|---|
+| `src/inventory.py` | refreeze against cascadia-early-warning at 3af3a40; re-run reproduces both files byte for byte |
+| `src/validate.py` | DOMAIN GATE: PASSED |
+| `src/build_page.py` | built; title and both annotations re-asserted; heading now "Six eras", counted from `page_text.ERAS` |
+| `src/render_charts.py` (K6) | 320, 519, 520, 871, 872, 1031, 1032, 1040: exit 0 |
+| 3.2, the title | unchanged and still true: build ten introduces no surface |
+
+### Seat 1 · Hiring manager (naive, one seat)
+
+Verbatim.
+
+**Screen A (320)**
+```
+SENTENCE  "It's a checklist grid of ten portfolio projects against fourteen kinds of
+          testing, showing that each new build added more checks. On the phone I can
+          only see the first six columns, though."
+NUMBER    "Fourteen. It's in the title" (title)
+QUESTION  "On a phone I can see columns 1 to 6. Where did the other eight surfaces show
+          up, and should I take the title's 'fourteen' on trust?"
+GAP       could not count the diamonds the subtitle asks for: columns 7 to 14 are
+          off-screen; the key is long; the prose below is skimmed
+```
+
+**Screen B (1040)**
+```
+SENTENCE  "One person built ten portfolio projects and added testing practices over
+          time. The first build had two kinds of checks, the last carries all
+          fourteen, and the big jump came at build four, the first Python build."
+NUMBER    "Five surfaces appear at once at build four." (annotation)
+QUESTION  "Some later builds drop surfaces an earlier build had ... Is that
+          deliberate, or did it regress?"
+GAP       no definition of a surface beyond its name; why empty cells are "not
+          debts"; how the standard's version rows relate to the marks
+ERAS      the five earlier labels "read as a rough story of a maturing practice";
+          "Pre-registered" "didn't make sense to me ... 'Pre-' sounds like something
+          that comes before registration, and an earlier era is already called
+          'Reviewed and registered', so it read as a step backwards". Best guess:
+          "the research sense: they wrote down their predictions or tests before
+          looking at the data. Nothing on the image confirms that."
+```
+
+### Disposition
+
+| # | Finding | New? | Disposition |
+|---|---|---|---|
+| R1 | "Pre-registered" read as a step backwards next to "Reviewed and registered"; the right meaning was guessed, not confirmed by the image | yes | **held for Aaron**: the era's meaning is stated in its era block under the matrix, as every era's is; no era label is defined on the matrix itself. The collision with "registered" is real. Alternative offered in the report: "Committed first". Not changed by the session, because the name is Aaron's call delegated to a draft and the seat is one reader |
+| R2 | phone shows six columns; diamonds cannot be counted there | no | as Round 1: the scroll hint and the 1040 state carry it; unchanged |
+| R3 | later builds lack surfaces earlier ones had | no | as panel finding 13: an empty cell is a fact, not a debt (spec rule 8); unchanged |
+| R4 | surfaces not defined beyond the name; lanes' relation to the marks | no | as Round 1: definitions live in `governance/surfaces.md`, linked from the page; unchanged |
+
+The seat's Screen B sentence carries the tenth row correctly ("the last
+carries all fourteen") and does not read it as a fifteenth surface. One seat
+is one reader: R1 is evidence, not a measurement.
